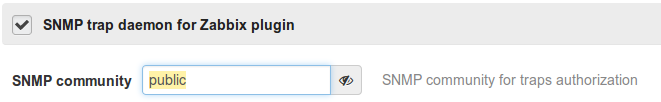
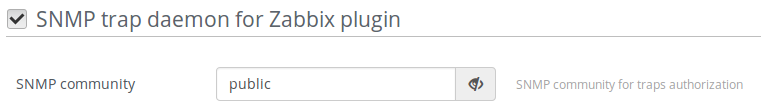
update documentation

diff --git a/doc/content/guide.rst b/doc/content/guide.rst
@@ -7,14 +7,16 @@ Environment configuration
 
 1. Create an environment. For more information about environment creation, see
    `Mirantis OpenStack User Guide <http://docs.mirantis.com/openstack/fuel
-   /fuel-6.1/user-guide.html#create-a-new-openstack-environment>`_.
+   /fuel-7.0/user-guide.html#create-a-new-openstack-environment>`_.
 2. Enable and configure Zabbix plugin for Fuel. For instructions, see Zabbix
    Plugin Guide in the `Fuel Plugins Catalog <https://www.mirantis.com
    /products/openstack-drivers-and-plugins/fuel-plugins/>`_.
-3. Open *Settings* tab of the Fuel web UI and scroll the page down. Select the
-   plugin checkbox and set *SNMP community* parameter:
+3. Open *Settings* tab of the Fuel web UI and scroll the page down. On the left
+   choose *SNMP trap daemon for Zabbix plugin*, select the plugin checkbox and
+   set *SNMP community* parameter:
 
    .. image:: images/settings.png
+      :width: 100%
 
    You could see default value by clicking on the eye icon. It is highly
    recommended to change default SNMP community, because it is used to
@@ -22,15 +24,15 @@ Environment configuration
 4. Adjust other environment settings to your requirements and deploy the
    environment. For more information, see
    `Mirantis OpenStack User Guide <http://docs.mirantis.com/openstack/fuel
-   /fuel-6.1/user-guide.html#create-a-new-openstack-environment>`_.
+   /fuel-7.0/user-guide.html#create-a-new-openstack-environment>`_.
 
 Environment validation
 ======================
 
 After a successful deployment, all Controller Nodes should have the following:
 
-1. snmptrapd daemon running and listening on UDP/162 port on the VIP management
-   address.
+1. snmptrapd daemon running and listening on UDP/162 port on the VIP address
+   reserved for Zabbix.
 2. snmptrapd daemon configured to pass all SNMP traps to snmptt handler.
 3. snmptt daemon running which parse SNMP traps and stores them in a log file
    in a format accepted by Zabbix.
@@ -41,7 +43,8 @@ To test if everything is installed and configured properly, follow these steps:
 
 1. Generate a test SNMP trap running following command from any node::
 
-       [root@node-46 ~]# snmptrap -v 2c -c <SNMP_community> <management_VIP_address> "" .1.3.6.1.4.1.8072.2.3.0.1
+       [root@node-46 ~]# snmptrap -v 2c -c <SNMP_community> \
+       <zabbix_VIP_address> "" .1.3.6.1.4.1.8072.2.3.0.1
 
    where:
 
@@ -50,23 +53,29 @@ To test if everything is installed and configured properly, follow these steps:
        It is set in the SNMP trap daemon for Zabbix plugin Settings in Fuel UI:
 
    .. image:: images/settings.png
+      :width: 100%
 
-   *<management_VIP_address>*
+   *<zabbix_VIP_address>*
 
        If you don’t know the address, run the following command on any node::
 
-           [root@node-46 ~]# grep management_vip /etc/astute.yaml
+           [root@node-46 ~]# grep -A2 ^zabbix_vip_management /etc/astute.yaml
 
        You should get the required VIP in the output::
 
-           management_vip: 192.168.0.1
+           zabbix_vip_management:
+             network_role: zabbix
+             ipaddr: 192.168.0.1
 
 
 2. After several seconds of running the snmptrap command you should see a line
    in the Zabbix Server log file similar to this one::
 
-       [root@node-45 ~]# grep netSnmpExampleHeartbeatNotification \ /var/log/zabbix/zabbix_server.log
-       10730:20150611:182933.176 unmatched trap received from [192.168.0.4]: 18:29:27 2015/06/11 .1.3.6.1.4.1.8072.2.3.0.1 Normal "Status Events" node-46.domain.tld - netSnmpExampleHeartbeatNotification
+       [root@node-45 ~]# grep netSnmpExampleHeartbeatNotification \
+       /var/log/zabbix/zabbix_server.log
+       10730:20150611:182933.176 unmatched trap received from [192.168.0.4]:
+       18:29:27 2015/06/11 .1.3.6.1.4.1.8072.2.3.0.1 Normal "Status Events"
+       node-46.domain.tld - netSnmpExampleHeartbeatNotification
 
    This is a proof that test SNMP trap has been received and passed to Zabbix.
    It is “unmatched” for Zabbix because there is no configuration for this trap

diff --git a/doc/content/installation.rst b/doc/content/installation.rst
@@ -9,15 +9,16 @@ To install SNMP trap daemon for Zabbix plugin, follow these steps:
 
 1. Download and install the Zabbix plugin for Fuel from the
    `Fuel Plugins Catalog <https://www.mirantis.com/products/
-   openstack-drivers-and-plugins/fuel-plugins/>`_
+   openstack-drivers-and-plugins/fuel-plugins/>`_.
 2. Download the SNMP trap daemon for Zabbix plugin from the
    `Fuel Plugins Catalog <https://www.mirantis.com/products/
-   openstack-drivers-and-plugins/fuel-plugins/>`_
+   openstack-drivers-and-plugins/fuel-plugins/>`_.
 3. Copy the plugin on already installed Fuel Master node; ssh can be used for
    that. If you do not have the Fuel Master node yet, see `Quick Start Guide
    <https://software.mirantis.com/quick-start/>`_::
 
-    # scp zabbix_snmptrapd-1.0-1.0.0-1.noarch.rpm root@<The_Fuel_Master_node_IP>:/tmp
+    # scp zabbix_snmptrapd-1.0-1.0.0-1.noarch.rpm \
+      root@<The_Fuel_Master_node_IP>:/tmp
 
 4. Log into the Fuel Master node. Install the plugin::
 
@@ -29,6 +30,6 @@ To install SNMP trap daemon for Zabbix plugin, follow these steps:
     # fuel plugins
     id | name                      | version  | package_version
     ---|---------------------------|----------|----------------
-    1  | zabbix_monitoring         | 1.0.0    | 2.0.0
+    1  | zabbix_monitoring         | 2.0.0    | 3.0.0
     2  | zabbix_snmptrapd          | 1.0.0    | 2.0.0
 

diff --git a/doc/content/description.rst b/doc/content/description.rst
@@ -5,7 +5,7 @@ SNMP trap daemon for Zabbix plugin
 This plugin extends Zabbix plugin functionality by adding ability to receive
 SNMP traps from management network and pass them to Zabbix. For more
 information about networks, see the `Logical Networks <https://
-docs.mirantis.com/openstack/fuel/fuel-6.1/reference-architecture.html
+docs.mirantis.com/openstack/fuel/fuel-7.0/reference-architecture.html
 #logical-networks>`_ section of MOS documentation. The plugins installs
 snmptrapd daemon for receiving and snmptt software for parsing and passing
 traps to Zabbix. This plugin does not provide any additional features from user
@@ -20,7 +20,7 @@ Requirements
 ====================== ===============
 Requirement            Version/Comment
 ====================== ===============
-Fuel                   6.1
-Zabbix plugin for Fuel 1.0.0
+Fuel                   7.0
+Zabbix plugin for Fuel 2.0.0
 ====================== ===============
 

diff --git a/README.md b/README.md
@@ -15,8 +15,8 @@ Requirements
 
 | Requirement                      | Version/Comment |
 |:---------------------------------|:----------------|
-| Mirantis OpenStack compatibility | 6.1             |
-| Zabbix plugin for Fuel           | 1.0.0           |
+| Mirantis OpenStack compatibility | 7.0             |
+| Zabbix plugin for Fuel           | 2.0.0           |
 
 Installation Guide
 ==================
@@ -48,7 +48,7 @@ To install SNMP trap daemon plugin, follow these steps:
         # fuel plugins
         id | name              | version | package_version
         ---|-------------------|---------|----------------
-        1  | zabbix_monitoring | 1.0.0   | 2.0.0
+        1  | zabbix_monitoring | 2.0.0   | 3.0.0
         2  | zabbix_snmptrapd  | 1.0.0   | 2.0.0
 
 For more information and instructions, see the SNMP trap daemon plugin Guide
